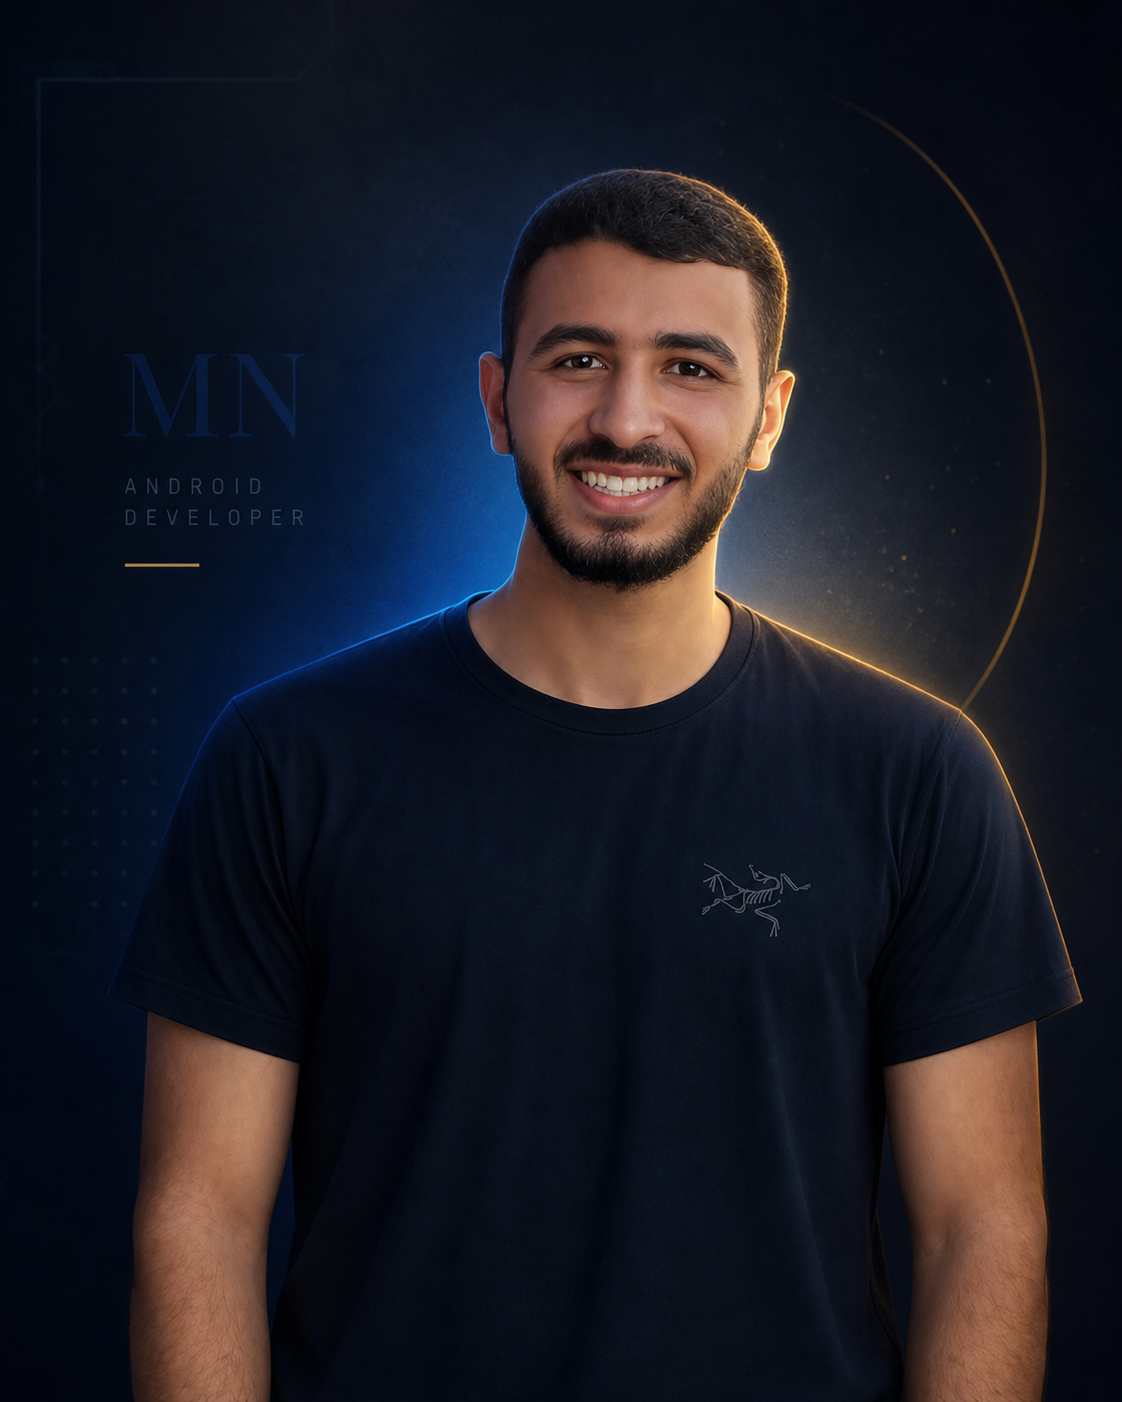
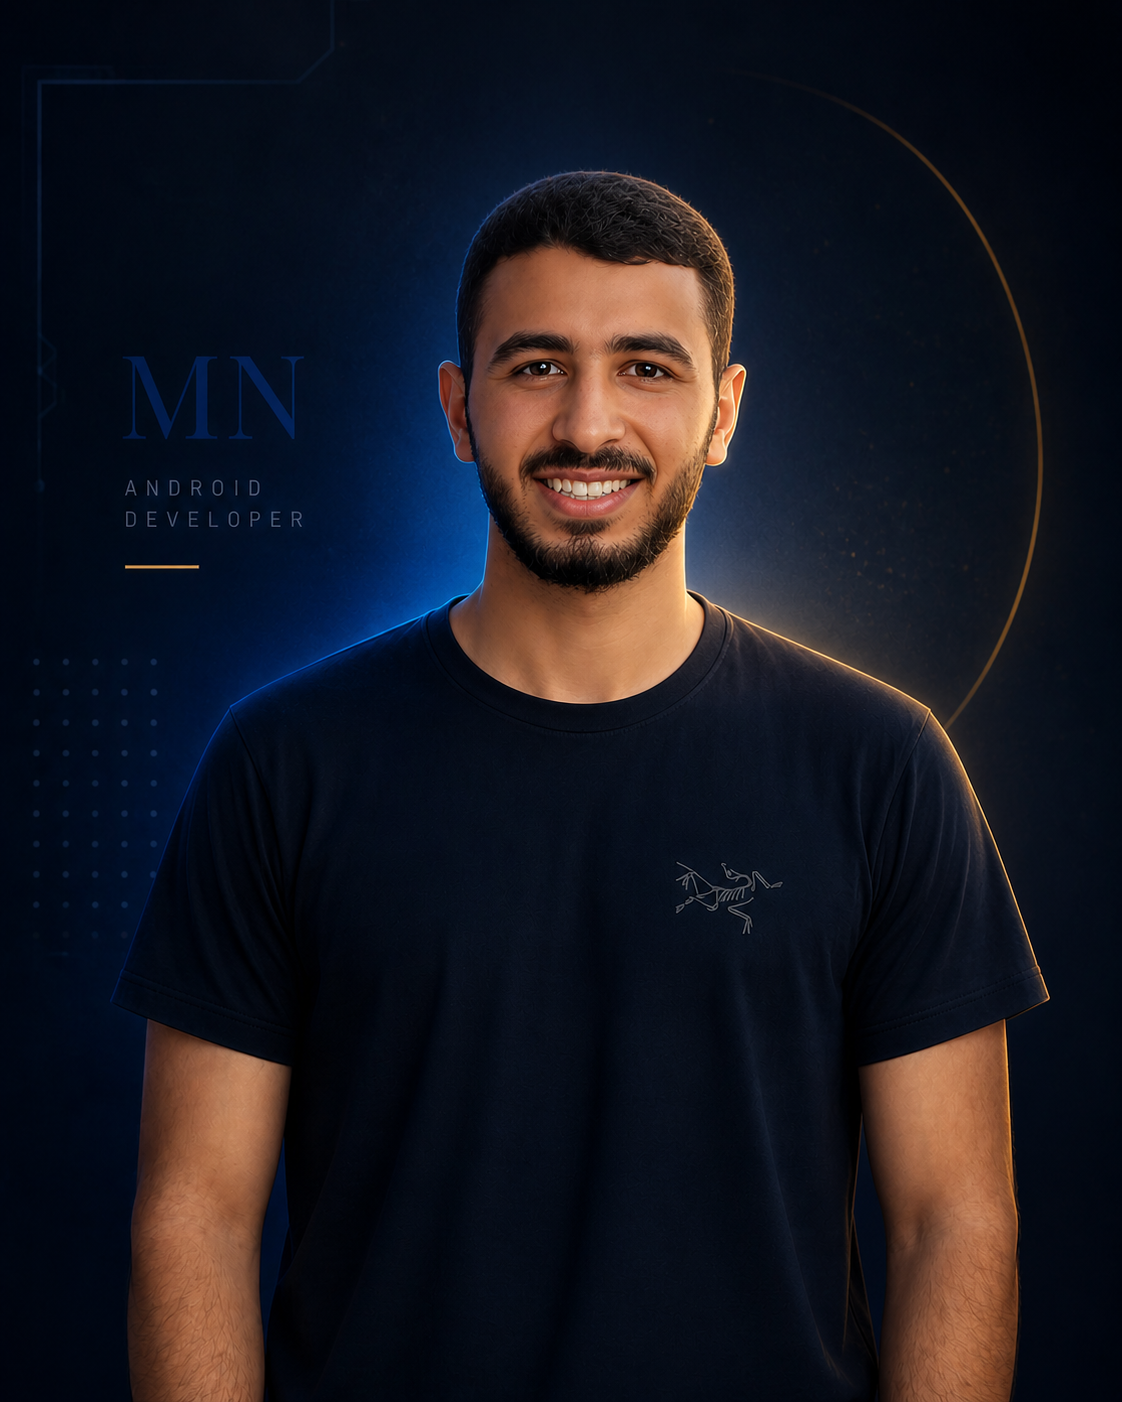
edit photo

diff --git a/src/components/About.jsx b/src/components/About.jsx
@@ -1,11 +1,40 @@
 import FadeIn from './FadeIn'
+import { useRef } from 'react'
 
 export default function About() {
+  const cardRef = useRef(null)
+
+  const handleMouseMove = (e) => {
+    const rect = cardRef.current.getBoundingClientRect()
+    const x = e.clientX - rect.left
+    const y = e.clientY - rect.top
+
+    const centerX = rect.width / 2
+    const centerY = rect.height / 2
+
+    const rotateX = -(y - centerY) / 20
+    const rotateY = (x - centerX) / 20
+
+    cardRef.current.style.transform = `
+      rotateX(${rotateX}deg) 
+      rotateY(${rotateY}deg)
+      scale(1.03)
+    `
+
+    // glow follow cursor
+    cardRef.current.style.setProperty('--x', `${x}px`)
+    cardRef.current.style.setProperty('--y', `${y}px`)
+  }
+
+  const handleMouseLeave = () => {
+    cardRef.current.style.transform = `rotateX(0deg) rotateY(0deg) scale(1)`
+  }
+
   return (
     <section id="about" className="py-32 px-6 sky-panel">
       <div className="max-w-6xl mx-auto">
         <div className="grid grid-cols-1 lg:grid-cols-2 gap-16 lg:gap-24 items-start">
-          
+
           {/* Left */}
           <div>
             <FadeIn>
@@ -22,29 +51,47 @@ export default function About() {
               </h2>
             </FadeIn>
 
-            {/* Avatar Image */}
+            {/* Interactive Image */}
             <FadeIn delay={0.2}>
-              <div className="mt-12 relative w-full max-w-xs aspect-square overflow-hidden rounded-2xl group">
+              <div
+                ref={cardRef}
+                onMouseMove={handleMouseMove}
+                onMouseLeave={handleMouseLeave}
+                className="mt-12 relative w-full max-w-xs aspect-square rounded-2xl overflow-hidden transition duration-300"
+                style={{
+                  transformStyle: 'preserve-3d',
+                }}
+              >
 
-                {/* Glow خلفي */}
-                <div className="absolute -inset-2 bg-gradient-to-r from-[#c8a96e]/20 to-transparent blur-2xl opacity-40 group-hover:opacity-60 transition duration-500" />
+                {/* glow يتبع الماوس */}
+                <div
+                  className="absolute inset-0 pointer-events-none"
+                  style={{
+                    background: `
+                      radial-gradient(
+                        circle at var(--x, 50%) var(--y, 50%), 
+                        rgba(200,169,110,0.25),
+                        transparent 40%
+                      )
+                    `,
+                  }}
+                />
 
                 {/* الصورة */}
                 <img
                   src="/my_photo.png"
                   alt="Mohamed Nabil"
-                  className="w-full h-full object-cover transition duration-500 group-hover:scale-105"
+                  className="w-full h-full object-cover"
                 />
 
-                {/* Overlay cinematic */}
+                {/* overlay cinematic */}
                 <div className="absolute inset-0 bg-gradient-to-br from-blue-900/20 via-transparent to-black/40" />
 
-                {/* Border */}
+                {/* border */}
                 <div className="absolute inset-0 border border-sky-400/20 rounded-2xl pointer-events-none" />
 
               </div>
             </FadeIn>
-
           </div>
 
           {/* Right */}
